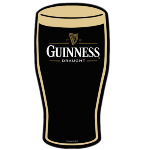
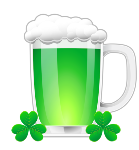
Changed images to be suitable to the theme, removed backwords of carousel1

diff --git a/index.html b/index.html
@@ -62,11 +62,6 @@
                 <img src="assets/images/3.png" class="d-block w-100" alt="...">
             </div>
         </div>
-        <button class="carousel-control-prev" type="button" data-bs-target="#carouselExampleInterval"
-            data-bs-slide="prev">
-            <span class="carousel-control-prev-icon" aria-hidden="true"></span>
-            <span class="visually-hidden">Previous</span>
-        </button>
         <button class="carousel-control-next" type="button" data-bs-target="#carouselExampleInterval"
             data-bs-slide="next">
             <span class="carousel-control-next-icon" aria-hidden="true"></span>
